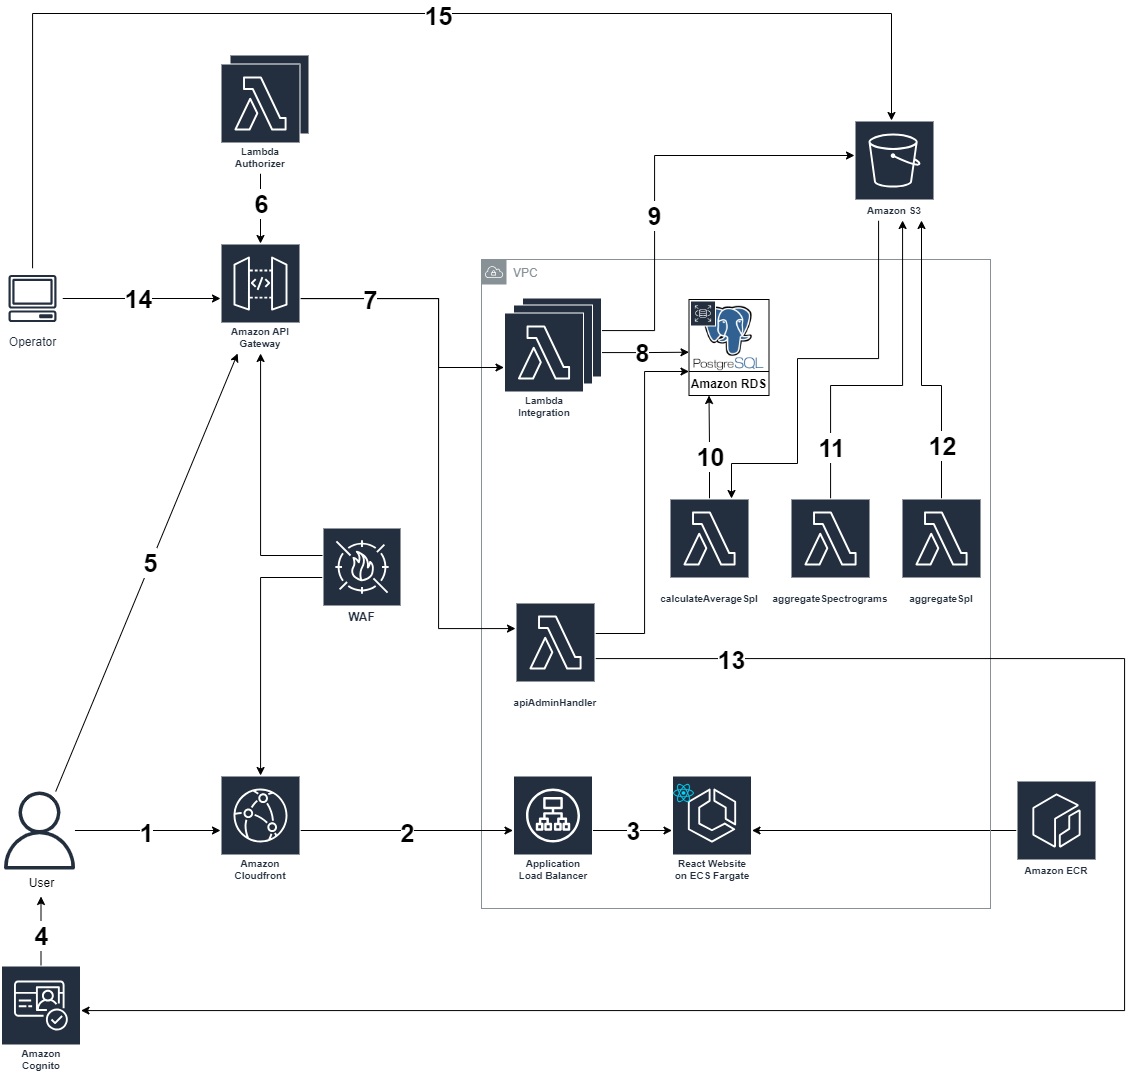
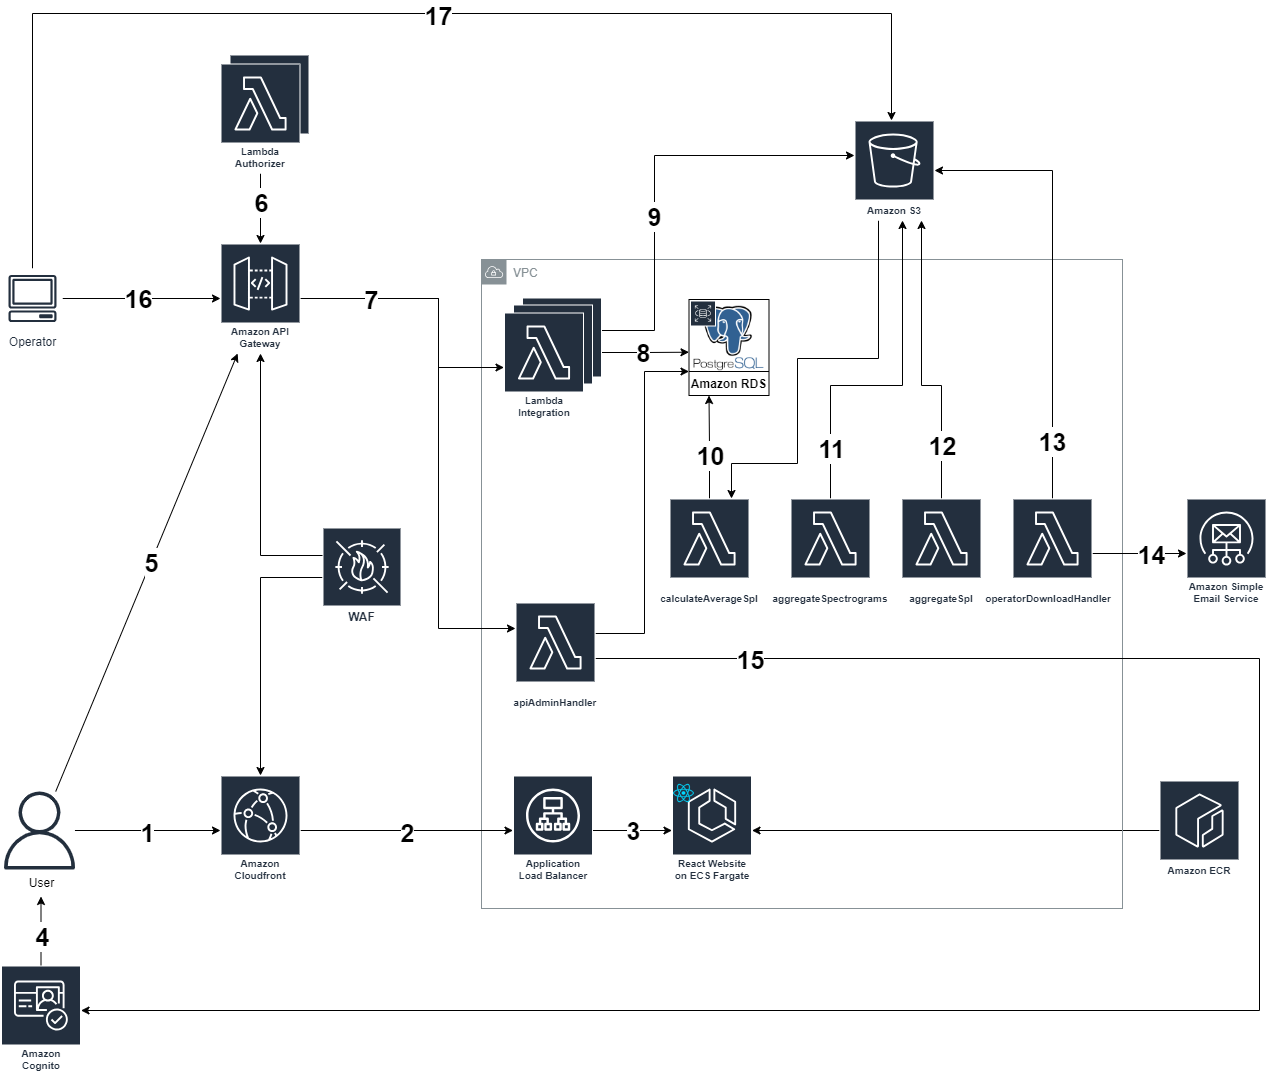
Update ArchitectureDeepDive.md

diff --git a/docs/ArchitectureDeepDive.md b/docs/ArchitectureDeepDive.md
@@ -2,7 +2,7 @@
 
 ## Architecture
 
-![Archnitecture Diagram](./images/architectureDeepDive/architecture_diagram.png)
+![Archnitecture Diagram](./images/noisetracker_architecture.png)
 
 ## Description
 ### Web Application
@@ -20,11 +20,13 @@
 10. Once a day, the average monthly spl values are calculated using data from S3 and are stored in the database.
 11. Once a day, the 1-minute interval spectrograms are combined into a single daily spectrogram which is stored in S3.
 12. Each hour, the 1-minute interval spl data is combined into hourly spl values which are stored in S3.  
-13. When an admin creates a new operator using the admin dashboard, a new user is created in the Cognito user pool.
+13. Objects in S3 are filtered based on user inputted parameters. The filtered objects are than combined into a single zip file which gets stored in S3. 
+14. An email is sent to the user that requested the download. The email contains a pre-signed URL that the user can use to download the zip file from S3.
+15. When an admin creates a new operator using the admin dashboard, a new user is created in the Cognito user pool.
 
 ### Client Software
-14. Client software fetched the hydrophone details and configurations by calling an API endpoint. This endpoint invokes a lambda function (7) that fetches the details from the Noise Tracker Database (8).
-15. The client application also needs to upload the analysis results into the cloud, which is done by uploading JSON files in the Noise Tracker S3 Bucket.
+16. Client software fetched the hydrophone details and configurations by calling an API endpoint. This endpoint invokes a lambda function (7) that fetches the details from the Noise Tracker Database (8).
+17. The client application also needs to upload the analysis results into the cloud, which is done by uploading JSON files in the Noise Tracker S3 Bucket.
 
 ## Database Schema
 
